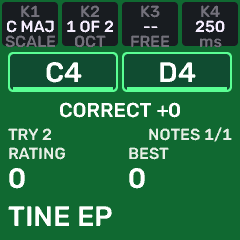
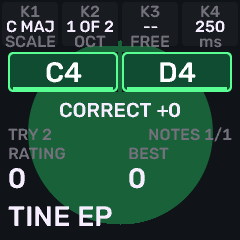
Share shrinking circle feedback with pitch training

diff --git a/web/guide/index.html b/web/guide/index.html
@@ -1,6 +1,6 @@
 <!doctype html><html lang="en"><head><meta charset="utf-8"><meta name="viewport" content="width=device-width,initial-scale=1"><title>FM-1 Ear Trainer · Guide</title><style>body{max-width:720px;margin:48px auto;padding:0 24px;font:18px/1.7 system-ui;background:#111416;color:#f3eef8}a{color:#ffb595}h1,h2{line-height:1.2}li{margin-bottom:12px}small{color:#b9b9bf}</style></head><body>
 <nav><a href="../../">Home</a> · <a href="../../emu/">Emulator</a> · <a href="../installer/">Installer</a></nav>
-<h1>Start playing</h1><p><strong>On the FM-1: stop playback, hold HOME and press PLAY.</strong> Choose Pitch training, Metronome or Rhythm game with SELECT (or K1), then press PLAY. HOME returns to the shared training menu; HOME again leaves training. All activities are part of one Ear Trainer firmware.</p><h2>Repeat the hidden notes</h2><p>Choose a single octave or the full F3–G5 keyboard in K2. Each sequence contains distinct pitches. Octave mode uses C4–C5 in major or A3–A4 in minor; full mode extends above and below the reference.</p><p>Listen to the full exercise, then play the hidden pitches in any order, separately or together. Each pitch counts once. Highlighted references and notes you have already uncovered can be played again without an error; the game waits for the remaining notes. Pitches include octave.</p><h2>Display</h2><p>Four top zones correspond to K1–K4. Note cards show references and hide target pitches; accepted answers turn green, and a failed card is marked red. Correct answers reveal the completed sequence. RATING is your current skill rating; BEST is the saved highest rating for this mode. The bottom is dedicated to a larger patch name.</p><h2>Training knobs</h2><ul><li><strong>K1 Scale:</strong> C major or A natural minor (reference A3).</li><li><strong>K2 Complexity:</strong> hidden notes of total notes: 1 of 1, 1 of 2, 2 of 2, 1 of 3, 2 of 3, 3 of 3, 1 of 4, 2 of 4, 3 of 4, 4 of 4. The ten combinations repeat in two blocks: OCT (one octave), then FULL (whole keyboard). Default: 1 of 2 OCT. When all notes are hidden, the first pitch changes each question.</li><li><strong>PRESETS knob:</strong> select among 24 FM6 sounds followed by 200 Prophet factory programs. Every preset uses poly mode. Changing sound stops playback and replays the same question; after a correct answer it advances to the next question.</li><li><strong>K4 Time:</strong> 0–1000 ms between note starts, in 25 ms steps; default 250 ms. Zero plays a simultaneous chord.</li><li><strong>K3:</strong> reserved.</li></ul><p>Preferences (scale, complexity/range, spacing and preset) save automatically after exiting the activity. No flash save interrupts an open training activity. Wait for SAVING SETTINGS to finish before powering off. The emulator remembers these preferences in this browser. Current and best ratings are retained for each scale × complexity × range combination. Hardware saves preferences and progress on exit; leave the activity and wait for saving to finish before switching off. Unsaved session changes are lost if power is cut before exit. Adaptive practice weights remain session-only.</p><p>Notes sustain together as an arpeggiated chord, releasing one second after the last note starts. Known notes turn green with an underline while held, and their keyboard keys light up. Notes to guess never light a keyboard key during playback. Changing scale, complexity or spacing starts a fresh question. In the emulator, use the corresponding printed knobs on the panel.</p>
+<h1>Start playing</h1><p><strong>On the FM-1: stop playback, hold HOME and press PLAY.</strong> Choose Pitch training, Metronome or Rhythm game with SELECT (or K1), then press PLAY. HOME returns to the shared training menu; HOME again leaves training. All activities are part of one Ear Trainer firmware.</p><h2>Repeat the hidden notes</h2><p>Choose a single octave or the full F3–G5 keyboard in K2. Each sequence contains distinct pitches. Octave mode uses C4–C5 in major or A3–A4 in minor; full mode extends above and below the reference.</p><p>Listen to the full exercise, then play the hidden pitches in any order, separately or together. Each pitch counts once. Highlighted references and notes you have already uncovered can be played again without an error; the game waits for the remaining notes. Pitches include octave.</p><h2>Display</h2><p>Four top zones correspond to K1–K4. Note cards show references and hide target pitches; accepted answers turn green, and a failed card is marked red. Correct answers reveal the completed sequence. Correct/wrong answers use the same soft-edged, shrinking green/red background circle as the metronome, fading over 400 ms instead of filling the screen with color. RATING is your current skill rating; BEST is the saved highest rating for this mode. The bottom is dedicated to a larger patch name.</p><h2>Training knobs</h2><ul><li><strong>K1 Scale:</strong> C major or A natural minor (reference A3).</li><li><strong>K2 Complexity:</strong> hidden notes of total notes: 1 of 1, 1 of 2, 2 of 2, 1 of 3, 2 of 3, 3 of 3, 1 of 4, 2 of 4, 3 of 4, 4 of 4. The ten combinations repeat in two blocks: OCT (one octave), then FULL (whole keyboard). Default: 1 of 2 OCT. When all notes are hidden, the first pitch changes each question.</li><li><strong>PRESETS knob:</strong> select among 24 FM6 sounds followed by 200 Prophet factory programs. Every preset uses poly mode. Changing sound stops playback and replays the same question; after a correct answer it advances to the next question.</li><li><strong>K4 Time:</strong> 0–1000 ms between note starts, in 25 ms steps; default 250 ms. Zero plays a simultaneous chord.</li><li><strong>K3:</strong> reserved.</li></ul><p>Preferences (scale, complexity/range, spacing and preset) save automatically after exiting the activity. No flash save interrupts an open training activity. Wait for SAVING SETTINGS to finish before powering off. The emulator remembers these preferences in this browser. Current and best ratings are retained for each scale × complexity × range combination. Hardware saves preferences and progress on exit; leave the activity and wait for saving to finish before switching off. Unsaved session changes are lost if power is cut before exit. Adaptive practice weights remain session-only.</p><p>Notes sustain together as an arpeggiated chord, releasing one second after the last note starts. Known notes turn green with an underline while held, and their keyboard keys light up. Notes to guess never light a keyboard key during playback. Changing scale, complexity or spacing starts a fresh question. In the emulator, use the corresponding printed knobs on the panel.</p>
 <h2>In the browser</h2><p>For panel button combinations, click <strong>Hold HOME</strong>, then another button. Or <strong>Shift+click</strong> any panel button to hold it. A blue outline marks the hold. The next button/key release clears it; <strong>Escape</strong> or <strong>Release held controls</strong> releases everything.</p><ol><li>Open the emulator and press <strong>Start training</strong> to enable sound and open the activity menu. Turn SELECT to choose an activity and press PLAY.</li><li>Listen, then click a key, use the computer-keyboard note shortcuts, or select an external MIDI keyboard.</li><li>Use <strong>Replay / Retry</strong> or <strong>Next question</strong>.</li></ol>
 <h2>On the FM-1</h2><p>With transport stopped, hold <strong>HOME</strong> and tap <strong>PLAY</strong>. PLAY retries; REC generates the next question; HOME returns to the training menu. The built-in keys use a fixed F3–G5 layout in this mode. Release held keys before answering. Matching includes octave.</p>
 <h2>Answer feedback</h2><p><strong>Green: correct.</strong> After one second, the next exercise starts automatically. <strong>Red: wrong.</strong> Musical keys are blocked, then after one second the same sequence plays again for another attempt. Release held keys before answering. PLAY replays manually; REC skips to the next exercise.</p>

diff --git a/melodee/firmware/src/ear_ui.c b/melodee/firmware/src/ear_ui.c
@@ -111,25 +111,32 @@ static int ear_ui_input(uint32_t pressed)
  * Five 48-row tiles retain the existing bounded canvas instead of a framebuffer. */
 static void ear_ui_draw(void)
 {
-    uint32_t state,attempts,armed,score,best,count,guess,entered,index,scale,gap,sounding,range,matched;
+    uint32_t state,attempts,armed,score,best,count,guess,entered,index,scale,gap,sounding,range,matched,serial;
     int32_t award;
     uint8_t notes[4];
-    static uint32_t last_state=EAR_STATES_COUNT,last_attempts,last_armed,last_entered,last_index;
+    static uint32_t last_state=EAR_STATES_COUNT,last_attempts,last_armed,last_entered,last_index,last_serial,feedback_at,last_frame;
     fm1_irq_off();
     state=ear.state;attempts=ear.attempts;armed=ear.armed;score=ear.score;best=ear_ratings[ear.mode][1];award=ear.last_award;matched=ear.matched;
     count=ear.count;guess=ear.guess;entered=ear.entered;index=ear.index;scale=ear.scale;gap=ear.gap;
-    sounding=ear.sounding;range=ear.range;
+    sounding=ear.sounding;range=ear.range;serial=ear.serial;
     for(uint32_t k=0;k<4u;k++)notes[k]=ear.notes[k];
     fm1_irq_on();
+    uint32_t feedback=state==EAR_CORRECT || state==EAR_WRONG;
+    if(feedback && (state!=last_state || attempts!=last_attempts || serial!=last_serial))feedback_at=fm1_ms;
+    uint32_t age=fm1_ms-feedback_at,frame=feedback && age<400u?age*30u/1000u+1u:0u;
     if(!ui.force && state==last_state && attempts==last_attempts && armed==last_armed &&
-        entered==last_entered && index==last_index)return;
-    last_state=state;last_attempts=attempts;last_armed=armed;last_entered=entered;last_index=index;ui.force=0;
-    uint16_t bg=state==EAR_CORRECT?RGB(16,104,55):state==EAR_WRONG?RGB(148,32,42):T_BG;
-    uint16_t ink=(state==EAR_CORRECT || state==EAR_WRONG)?RGB(255,255,255):T_TEXT;
-    uint16_t dim=(state==EAR_CORRECT || state==EAR_WRONG)?RGB(230,238,230):T_DIM;
+        entered==last_entered && index==last_index && serial==last_serial && frame==last_frame)return;
+    last_state=state;last_attempts=attempts;last_armed=armed;last_entered=entered;last_index=index;
+    last_serial=serial;last_frame=frame;ui.force=0;
+    uint32_t level=frame?(400u-age)*256u/400u:0u,radius=20u+72u*level/256u;
+    uint16_t bg=T_BG,ink=T_TEXT,dim=T_DIM;
+    uint16_t glow=mix565(bg,state==EAR_CORRECT?RGB(50,224,126):RGB(245,65,85),12u*level*level/(256u*256u));
+    uint8_t over=cv_over;
     char label[40];
     for(uint32_t band=0;band<5u;band++) {
         cv_begin(240,48,bg);
+        if(frame)training_feedback_circle(band,radius,glow);
+        cv_over=frame?1u:over;
         if(band==0) {
             if(ear_saving) {
                 cv_text_c(120,4,TY_TX,"SAVING SETTINGS",ink,bg);
@@ -208,4 +215,5 @@ static void ear_ui_draw(void)
         }
         cv_blit(0,band*48u);
     }
+    cv_over=over;
 }

diff --git a/melodee/firmware/src/metronome_ui.c b/melodee/firmware/src/metronome_ui.c
@@ -88,30 +88,6 @@ static int metro_ui_input(uint32_t pressed)
     } else if(pressed&(1u<<panel.btn[B_OCTDN]))metro_publish(METRO_CMD_RESTART);
     return 1;
 }
-/* Exact integer sqrt for display-only standard deviation, bounded 16 steps. */
-static uint32_t metro_sqrt(uint32_t x)
-{
-    uint32_t r=0,bit=1u<<30;
-    for(uint32_t i=0;i<16u;i++,bit>>=2) {
-        if(x>=r+bit) {x-=r+bit;r=(r>>1)+bit;}else r>>=1;
-    }
-    return r;
-}
-/* Main-only scanline disc. One bounded integer sqrt per visible row,
- * fractional edge coverage, no supersampling or full-screen buffer. */
-static void metro_ui_circle(uint32_t band,uint32_t radius,uint16_t ink)
-{
-    for(int32_t y=0;y<48;y++) {
-        int32_t dy=(int32_t)band*48+y-132;
-        int32_t q=(int32_t)(radius*radius)-dy*dy;
-        if(q<0)continue;
-        uint32_t span=metro_sqrt((uint32_t)q<<8),fraction=span&15u;
-        int32_t half=(int32_t)(span>>4);
-        cv_rect(120-half,y,half*2+1,1,ink);
-        uint16_t edge=mix565(T_BG,ink,fraction*2u);
-        cv_pset(119-half,y,edge);cv_pset(121+half,y,edge);
-    }
-}
 static uint32_t metro_deviation(uint32_t hits,int32_t sum,uint32_t squares)
 {
     /* Multiply before dividing: truncating the mean first would turn tiny
@@ -142,7 +118,7 @@ static void metro_ui_draw(void)
     const metro_meter_t *m=&metro_meters[s.meter];char label[48];
     for(uint32_t band=0;band<5u;band++) {
         cv_begin(240,48,T_BG);
-        if(frame)metro_ui_circle(band,radius,glow);
+        if(frame)training_feedback_circle(band,radius,glow);
         cv_over=frame?1u:over;
         if(!band) {
             cv_text(8,0,TY_LB,s.mode==METRO_PRACTICE?"METRO":"RHYTHM",T_THEME);

diff --git a/melodee/tests/ear_trainer_test.c b/melodee/tests/ear_trainer_test.c
@@ -58,7 +58,13 @@ int main(void)
     /* A genuinely wrong built-in key, then replay and correct target. */
     fm1_in.notes=1u;audio_ms(10);
     assert(ear.state==EAR_WRONG && ear.attempts==1 && ear.player==53);
-    save_screen("ear-wrong",RGB(148,32,42));
+    save_screen("ear-wrong",T_BG);
+    uint16_t plain=(uint16_t)((T_BG>>8)|(T_BG<<8));
+    assert(host_screen[94u*240u+50u]!=plain && !cv_over);
+    fm1_ms+=200;save_screen("ear-wrong-fade",T_BG);
+    assert(host_screen[94u*240u+50u]==plain); /* disc shrank; corner never flashed */
+    fm1_ms+=201;save_screen("ear-wrong-faded",T_BG);
+    uint64_t sent=host_sent;fm1_ms+=100;ear_ui_draw();assert(host_sent==sent);
     fm1_in.notes=0; audio_ms(10);
     assert(ear.player==-1);
     uint32_t locked_age=vage;
@@ -83,7 +89,12 @@ int main(void)
     fm1_in.notes=1u<<(target-53u);audio_ms(10);
     assert(ear.state==EAR_CORRECT && ear.attempts==2);
     assert(ear.last_award==0 && ear.score==0u && !ear.streak);
-    save_screen("ear-correct",RGB(16,104,55));
+    save_screen("ear-correct",T_BG);
+    assert(host_screen[94u*240u+50u]!=plain && !cv_over);
+    fm1_ms+=200;save_screen("ear-correct-fade",T_BG);
+    assert(host_screen[94u*240u+50u]==plain);
+    fm1_ms+=201;save_screen("ear-correct-faded",T_BG);
+    sent=host_sent;ear_ui_draw();assert(host_sent==sent);
     audio_ms(800);assert(ear.state==EAR_CORRECT && ear.serial==serial);
     audio_ms(300);assert(ear.serial==serial+1u && !ear.armed && ear.player==-1);
     audio_ms(1800);assert(ear.state==EAR_ANSWER && !ear.armed && !ear.attempts);

diff --git a/melodee/firmware/src/training_feedback_ui.c b/melodee/firmware/src/training_feedback_ui.c
@@ -1,0 +1,26 @@
+/* SPDX-License-Identifier: GPL-3.0-only
+ * Copyright (C) 2026 Kerem Kilic (Ellic Studio) */
+/* Shared foreground drawing for pitch and rhythm feedback. */
+static uint32_t metro_sqrt(uint32_t x)
+{
+    uint32_t r=0,bit=1u<<30;
+    for(uint32_t i=0;i<16u;i++,bit>>=2) {
+        if(x>=r+bit) {x-=r+bit;r=(r>>1)+bit;}else r>>=1;
+    }
+    return r;
+}
+/* One bounded integer sqrt per visible row, fractional edge coverage,
+ * no supersampling or full-screen buffer. Uses the existing 48-row strips. */
+static void training_feedback_circle(uint32_t band,uint32_t radius,uint16_t ink)
+{
+    for(int32_t y=0;y<48;y++) {
+        int32_t dy=(int32_t)band*48+y-132;
+        int32_t q=(int32_t)(radius*radius)-dy*dy;
+        if(q<0)continue;
+        uint32_t span=metro_sqrt((uint32_t)q<<8),fraction=span&15u;
+        int32_t half=(int32_t)(span>>4);
+        cv_rect(120-half,y,half*2+1,1,ink);
+        uint16_t edge=mix565(T_BG,ink,fraction*2u);
+        cv_pset(119-half,y,edge);cv_pset(121+half,y,edge);
+    }
+}

diff --git a/melodee/tools/size_fns.py b/melodee/tools/size_fns.py
@@ -31,7 +31,7 @@ SIZE_FILES = ["ui.c", "gfx.c", "favorites.c", "icons.c", "ui_graph.c", "ui_draw.
               # the song, punch, section sound and Bluetooth screens and the editor's radio command
               "ui_song.c", "ui_song_punch.c", "ui_song_sound.c", "ui_ble.c", "editor_ble.c",
               # Training screens are foreground UI, like the other ui_*.c files.
-              "ear_ui.c", "metronome_ui.c", "training_ui.c"]
+              "ear_ui.c", "metronome_ui.c", "training_ui.c", "training_feedback_ui.c"]
 DEF = re.compile(
     r"^(?:static|void|int|uint\w*|int\w*|const)\b[^;=(]*?\b([A-Za-z_]\w*)\s*\(", re.M)
 # Stopped note transforms are infrequent main-loop work.

diff --git a/melodee/firmware/src/ui.c b/melodee/firmware/src/ui.c
@@ -1304,6 +1304,7 @@ static uint32_t text_lines(const char *s, char (*l)[32], uint32_t m, int32_t w, 
     return k;
 }
 #include "ui_boot.c"                            /* visible progress before boot flash maintenance */
+#include "training_feedback_ui.c"
 #include "ear_ui.c"
 #include "metronome_ui.c"
 #include "training_ui.c"

diff --git a/docs/METRONOME.md b/docs/METRONOME.md
@@ -3,6 +3,37 @@
 The player controls are in the root README and `web/guide/index.html#metronome`.
 This is a development patch, not a hardware-qualified release.
 
+## Shared pitch/rhythm circle background — 2026-11-17
+
+Pitch correct/wrong screens now use the same soft-edged circle geometry,
+colors and 400 ms shrinking/fading curve as the metronome. The former full-screen
+green/red fill is replaced by the theme background. Result text and note-card
+highlights remain after the circle fades. Main snapshots state as before and
+tracks the result's serial/attempt so an ordinary redraw does not restart the
+animation. Only animation frame changes cause additional redraws; static held
+results return to the existing idle draw guard. No new pitch cue or partial-answer
+feedback is added.
+
+The bounded row rasterizer and integer square root move unchanged into
+`training_feedback_ui.c`, included before both screens, and remain in the
+main-only size-optimization list. Text blends over the circle and restores the
+renderer mode on exit. No audio, scoring, state-transition, input, persistence
+or wire-format code changes. Baseline: 4f36a47; `game-test` passed before editing.
+
+| Compliance category | Status / evidence |
+| --- | --- |
+| Target / build / ABI | PASS: existing classic FM-1, Clang pi32v2 4.0.1 r3, pinned SDK d179b4484759423312073f5fbb232501aa491047 and build flags retained. `target` passes package/image/manifest/SRAM/stack checks. App 576,764 B; package 668,948 B. Physical bootloader identity UNKNOWN. |
+| Audio hot path / numerics | PASS for source scope: no audio path changes; circle/envelope uses bounded integer main-loop math. Shared helper remains outside ISR/render calls. Pitch host PCM remains 22.88 s, peak 19,309, RMS 5,582.0, matching the pre-change baseline. |
+| Execution ownership / synchronization | PASS: existing IRQ-masked snapshot and main-owned UI state retained; no locks, workers, queues or waits added. |
+| Memory / storage / I/O | PASS for build/bounds: data+BSS 97,592/98,304 B; pool 137,460/357,888 B; arena 74,720 B (minimum 49,152); ISR stack audit 2,984 B. Shared strip drawing, no new framebuffer, storage or peripheral work. Physical drawing latency UNVERIFIED. |
+| Dependencies / includes / licenses | PASS: no external dependency; shared in-repo helper has original Kerem Kilic/SPDX attribution. README screenshot regenerated from the real host framebuffer. |
+| Compatibility / package / recovery | PASS for source/build scope: unchanged settings/version/metric IDs, loader/layout and package contracts; existing recovery checks retained. Physical installation/rollback UNVERIFIED. |
+| Host functional validation | PASS: native `game-test` checks correct/wrong pulses, 200 ms shrink, 401 ms clear, unchanged corner background, renderer-mode restoration and no static-result redraw. Full pitch behavior/audio assertions, `metro-test`, `training-test`, `web`, `web-test`, page controls, `site` and served-site checks pass. Browser assertions now check circle colors/clearance, locked note-card glyphs and ratings through animation, and final-answer-only feedback for four hidden notes. Correct/fading/wrong/cleared framebuffers visually reviewed at native resolution. |
+| Hardware real-time validation | UNVERIFIED: no physical redraw/soak or recovery run. Check both result colors/decay, held answers, all palettes, rapid answers/replay, keys and audio during animation under USB/TRS load; measure ISR margin and main-loop/LCD latency, then run a sustained soak. Nominal audio remains 44.1 kHz / CTL 32 / 128-frame I2S halves (~2.90 ms). |
+
[1 lines of base64/hex data omitted]
+No separate sanitizer or hardware performance measurement is claimed.
+
 ## Plain-metronome sound presets — 2026-11-17
 
 In plain Metronome, K3 now selects Click (the existing sound), 808, CR78 or FM.

diff --git a/README.md b/README.md
@@ -23,7 +23,7 @@ Listen to the notes, then play the hidden ones on the keyboard—in any order, s
 | REC | Skip to the next question |
 | HOME | Return to the training menu; HOME again exits |
 
-Green means correct and moves to the next question. Red means a mistake and repeats the question. RATING starts at zero and rewards first-try answers; BEST remembers your highest rating for each mode.
+A green circle shrinks and fades for a correct answer; a red circle does the same for a mistake before replay. Pitch and rhythm training share this background effect. RATING starts at zero and rewards first-try answers; BEST remembers your highest rating for each mode.
 
 Settings and ratings save after leaving the activity, with no periodic flash pauses during training. Leave training and let saving finish before switching off; changes since the last exit are lost if power is cut. Musical keys glow dimly during training (global LIGHTS controls the level), with brighter input feedback. In the browser, choose **Start training**.
 
